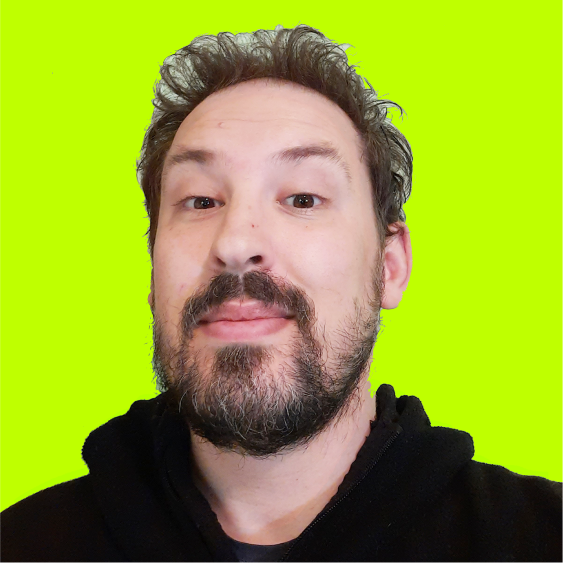
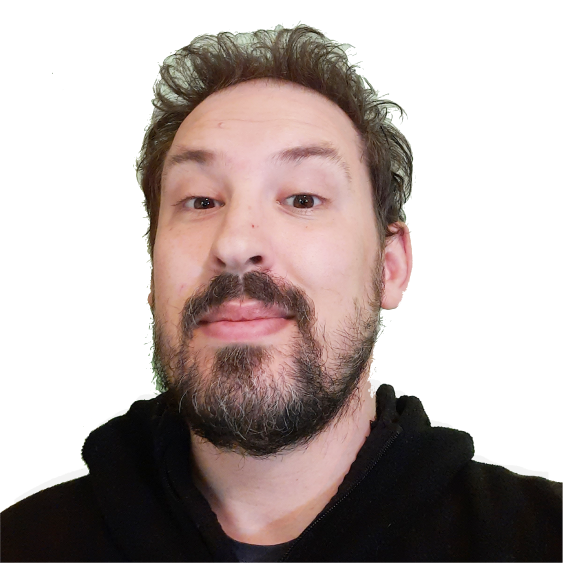
Add testimonials page, update team pics

diff --git a/impact/testimonials.md b/impact/testimonials.md
@@ -1,5 +1,6 @@
 ---
 layout: layouts/impact.liquid
 title: Testimonials
+data_file: testimonials
 meta_description: "Coming soon"
 ---
